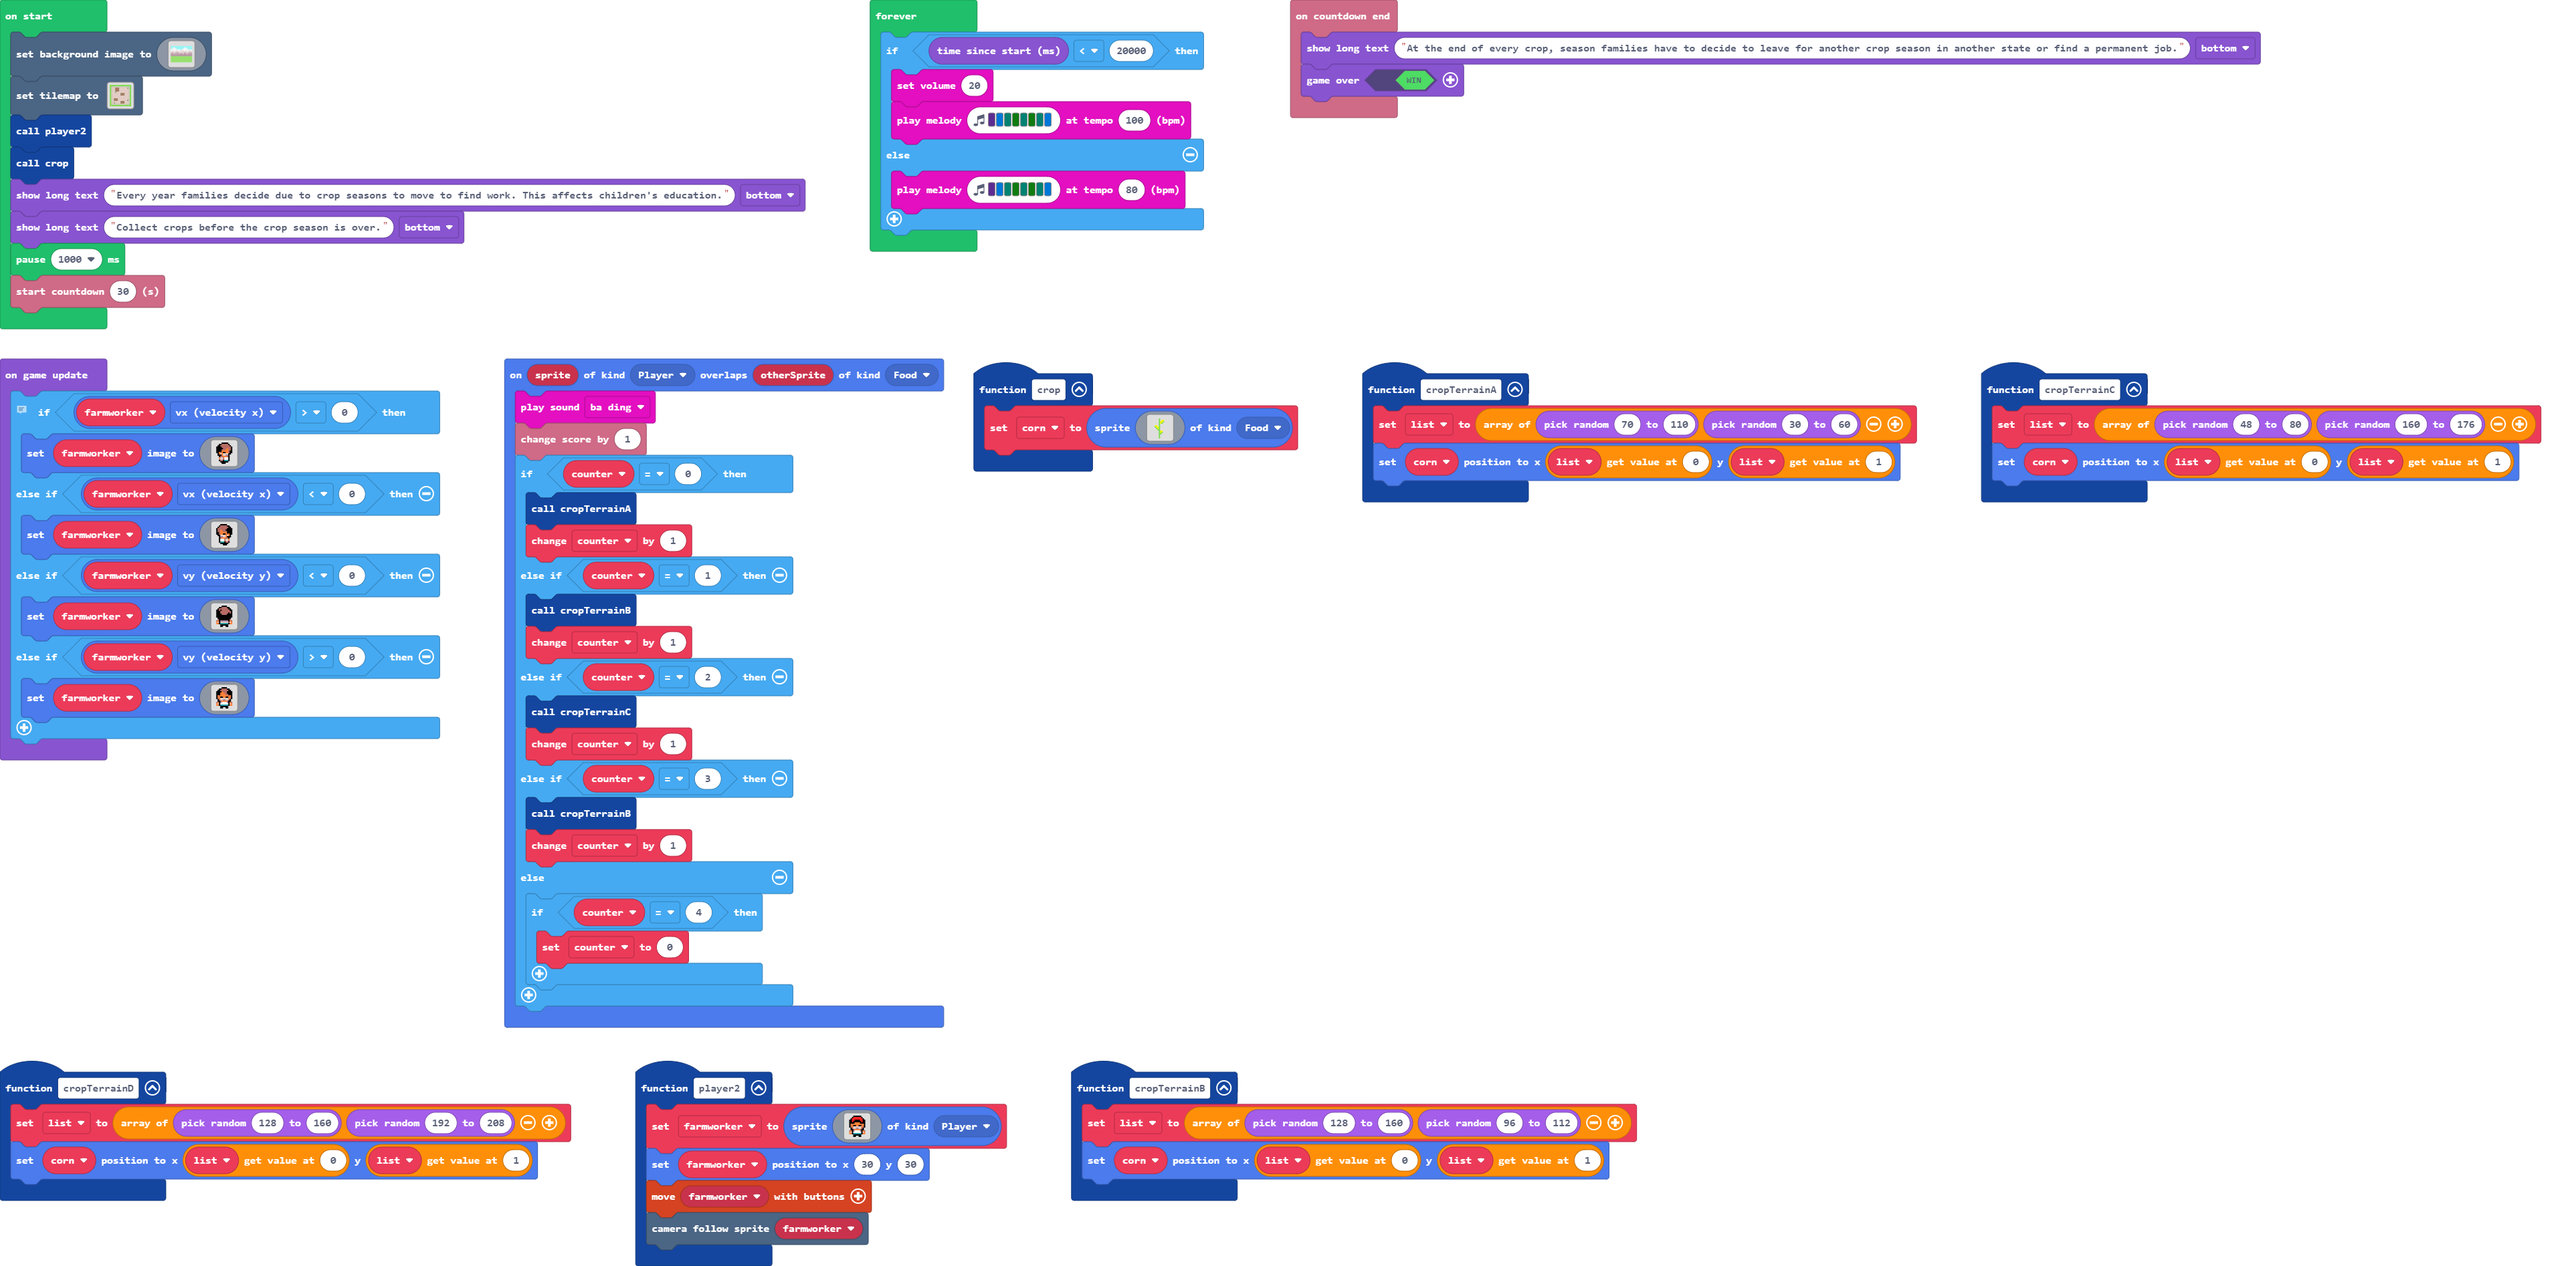
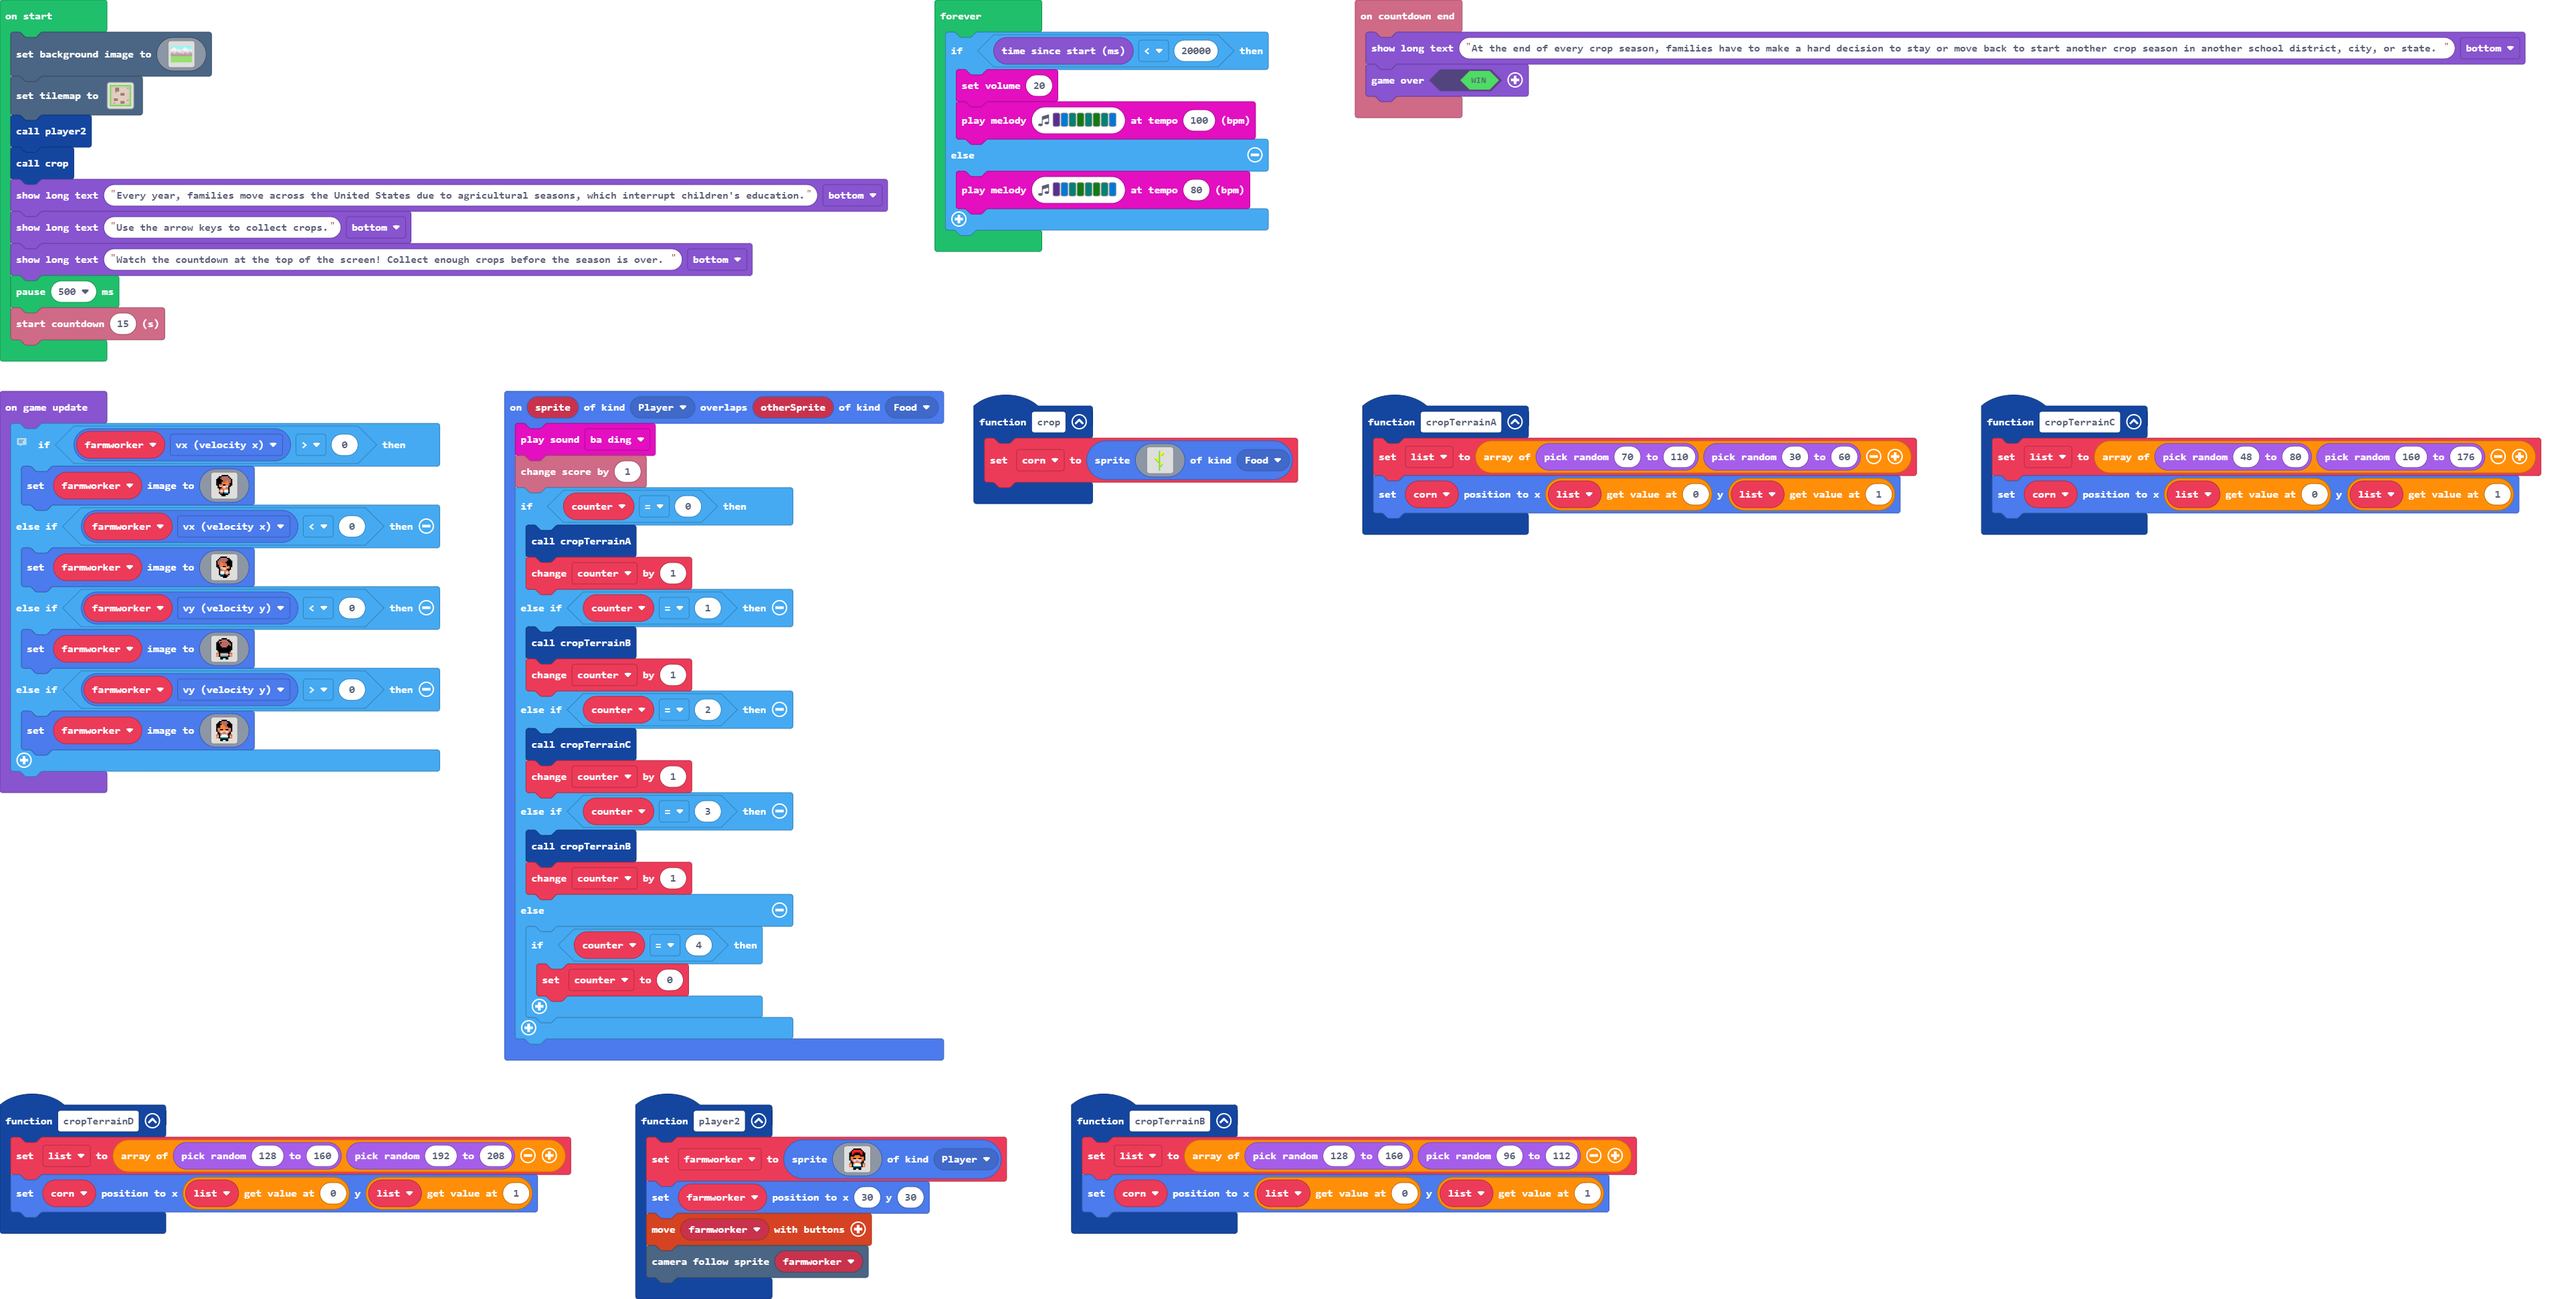
Update main.blocks, main.ts

Changed region(s): [[0.0, 0.0, 0.9971, 0.9968], [0.0, 0.8411, 0.2181, 0.9345], [0.0623, 0.0312, 0.0935, 0.0623]]

diff --git a/main.ts b/main.ts
@@ -177,9 +177,9 @@ scene.setBackgroundImage(img`
 tiles.setTilemap(tilemap`level1`)
 player2()
 crop()
-game.showLongText("Every year families move across the United States due to agricultural seasons, which disturb children's education.", DialogLayout.Bottom)
+game.showLongText("Every year, families move across the United States due to agricultural seasons, which interrupt children's education.", DialogLayout.Bottom)
 game.showLongText("Use the arrow keys to collect crops.", DialogLayout.Bottom)
-game.showLongText("Watch the countdown; the crop season is running down.", DialogLayout.Bottom)
+game.showLongText("Watch the countdown at the top of the screen! Collect enough crops before the season is over. ", DialogLayout.Bottom)
 pause(500)
 info.startCountdown(15)
 game.onUpdate(function () {
